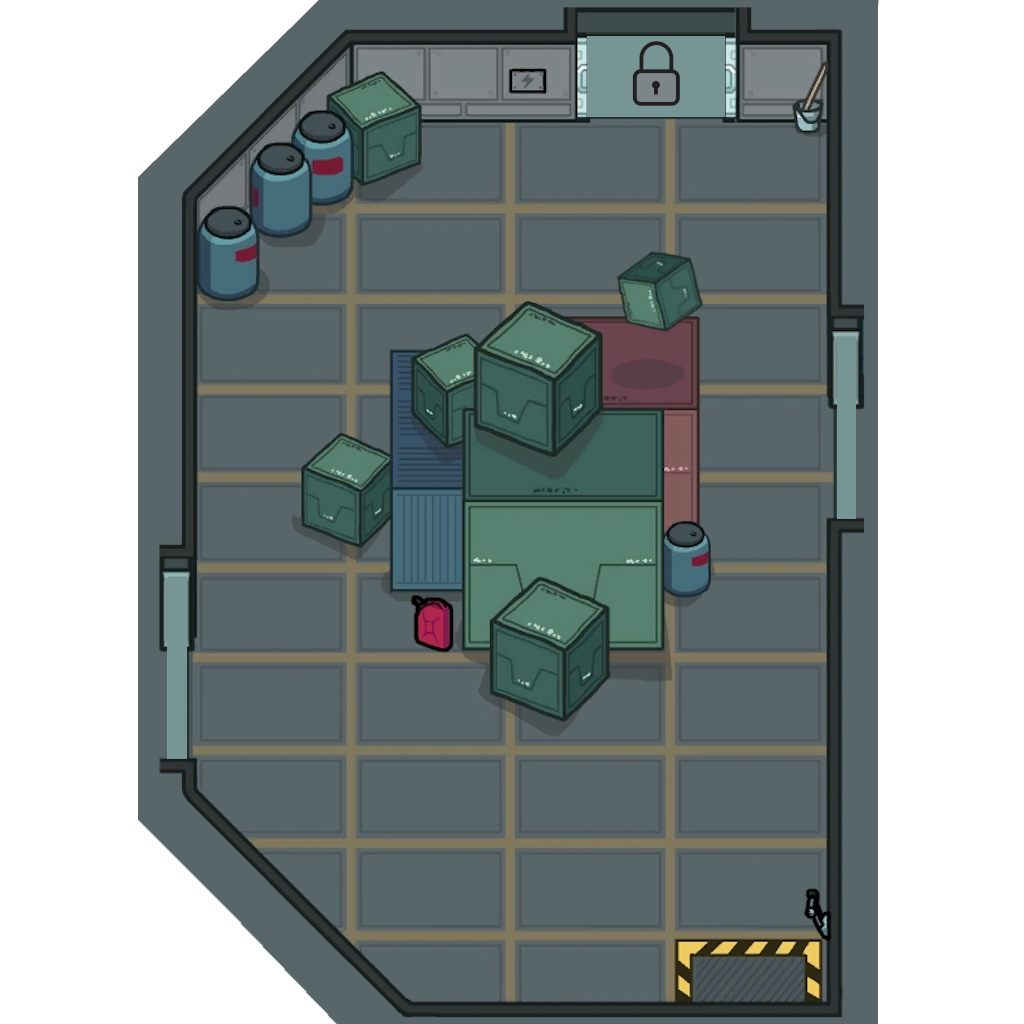
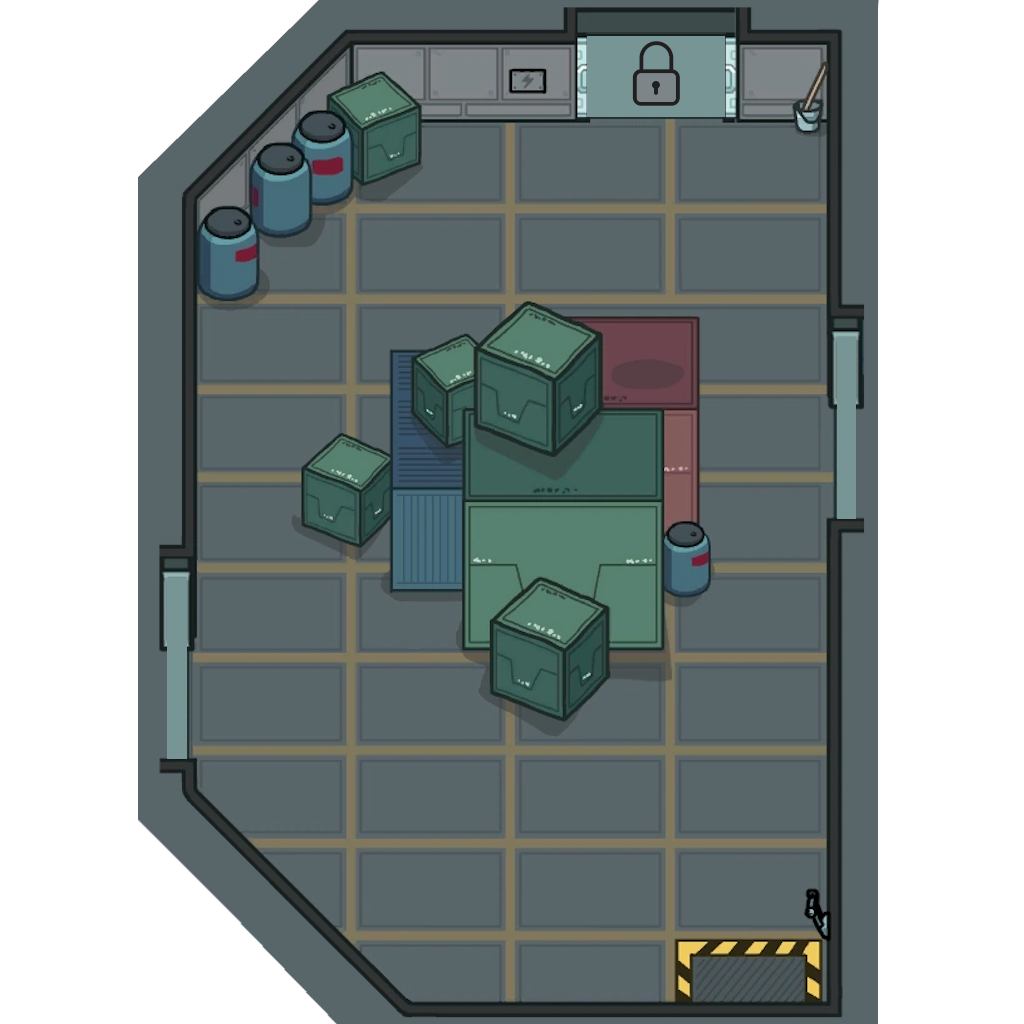
sEd: Added collision boxes and spiced up the map a bit.

Changed region(s): [[0.5938, 0.25, 0.6875, 0.3438], [0.4062, 0.5625, 0.4688, 0.6562]]

diff --git a/blog/sEducation/src/stages.js b/blog/sEducation/src/stages.js
@@ -14,14 +14,124 @@ class DebugStage extends Stage {
   constructor() {
     super();
 
-    this.AddSprite({id:"map", x: WIDTH*1/3, y: HEIGHT/2, width: 800, 
+    this.AddSprite({id:"map", x: 400, y: 500, width: 800, 
       height: 800, filename: "debug_map.png"});
 
-    this.AddSprite({id:"player", x: 400, y: 600, width: 100, 
-            height: 100, filename: "test_image.png"});
+    this.AddSprite({id:"key", x: 320, y: 600, width: 40,
+      height: 40, filename: "key.png"});
+
+    this.AddSprite({id:"player", x: 400, y: 250, width: 90, 
+            height: 90, filename: "test_image.png"});
+            
+    this.AddSprite({id:"crate", x: 505, y: 325, width: 80, 
+      height: 80, filename: "crate.png"});
+
+    this.collision_rects = [];
+
+    // Walls.
+    this.collision_rects.push({x:130, y:500, w:50, h:600}); // Left wall.
+    this.collision_rects.push({x:670, y:500, w:50, h:800}); // Right wall.
+    this.collision_rects.push({x:400, y:120, w:500, h:50}); // Top wall.
+    this.collision_rects.push({x:400, y:900, w:500, h:50}); // Bottom wall.
+    
+    // Bottom left angled wall.
+    this.collision_rects.push({x:290, y:855, w:50, h:50});
+    this.collision_rects.push({x:245, y:810, w:50, h:50});
+    this.collision_rects.push({x:200, y:765, w:50, h:50});
+    this.collision_rects.push({x:155, y:720, w:50, h:50});
+
+    // Top left barrels.
+    this.collision_rects.push({x:178, y:240, w:50, h:70});
+    this.collision_rects.push({x:225, y:200, w:50, h:70});
+    this.collision_rects.push({x:255, y:160, w:150, h:70});
+
+    // Center boxes.
+    this.collision_rects.push({x:426, y:435, w:246, h:160}); // Main large.
+    this.collision_rects.push({x:532, y:530, w:50, h:40}); // Bottem right barrel.
+    this.collision_rects.push({x:465, y:370, w:170, h:50}); // Red crate.
+    this.collision_rects.push({x:418, y:342, w:40, h:25}); // Top tip.
+    this.collision_rects.push({x:440, y:512, w:160, h:80}); // Big green.
+    this.collision_rects.push({x:430, y:570, w:95, h:40}); // Bottom small green.
+    this.collision_rects.push({x:270, y:455, w:70, h:40}); // Left small green.
+
+    this.player_left = this.sprites.player.x - 29;
+    this.player_right = this.sprites.player.x + 29;
+    this.player_top = this.sprites.player.y - 38;
+    this.player_bottom = this.sprites.player.y + 38;
+  }
+
+  MovePlayer(x, y) {
+    if (x < 0) {
+      if (this.sprites.player.scale.x > 0) {
+        this.sprites.player.scale.x *= -1;
+      }
+    } else {
+      if (this.sprites.player.scale.x < 0) {
+        this.sprites.player.scale.x *= -1;
+      }
+    }
+    this.sprites.player.x += x;
+    this.sprites.player.y += y;
+
+    this.player_left = this.sprites.player.x - 25;
+    this.player_right = this.sprites.player.x + 25;
+    this.player_top = this.sprites.player.y - 40;
+    this.player_bottom = this.sprites.player.y + 40;
+
+    G_needs_update = true;
+
+    let coll = false;
+    for (let i = 0; i < this.collision_rects.length; i++) {
+      let r = this.collision_rects[i];
+      if (sContains(this.player_left, this.player_top, r.x, r.y, r.w, r.h)) {
+        coll = true;
+        break;
+      }
+      if (sContains(this.player_left, this.player_bottom, r.x, r.y, r.w, r.h)) {
+        coll = true;
+        break;
+      }
+      if (sContains(this.player_right, this.player_top, r.x, r.y, r.w, r.h)) {
+        coll = true;
+        break;
+      }
+      if (sContains(this.player_right, this.player_bottom, r.x, r.y, r.w, r.h)) {
+        coll = true;
+        break;
+      }
+    }
+
+    if (coll) {
+      this.sprites.player.x -= x;
+      this.sprites.player.y -= y;
+
+      this.player_left = this.sprites.player.x - 25;
+      this.player_right = this.sprites.player.x + 25;
+      this.player_top = this.sprites.player.y - 40;
+      this.player_bottom = this.sprites.player.y + 40;
+  
+      G_needs_update = true;
+    }
   }
 
   Update(dT) {
+    this.sprites.crate.rotation += 0.0001 * dT;
+  }
 
+  Draw() {
+    if (DRAW_DEBUG === false) { return; }
+    for (let i = 0; i < this.collision_rects.length; i++) {
+      let r = this.collision_rects[i];
+      G_graphics[3].beginFill(0, 0);
+      G_graphics[3].lineStyle(1, 0x228822);
+      G_graphics[3].drawRect(r.x - r.w/2, r.y - r.h/2, r.w, r.h);
+      G_graphics[3].endFill();
+    }
+    
+    G_graphics[3].beginFill(0,0);
+    G_graphics[3].lineStyle(1, 0x440404);
+    G_graphics[3].drawRect(this.player_left, this.player_top,
+      this.player_right - this.player_left, this.player_bottom - this.player_top);
+    G_graphics[3].endFill();
   }
 };

diff --git a/blog/sEducation/src/runner.js b/blog/sEducation/src/runner.js
@@ -37,6 +37,14 @@ function AddHelpButton(which) {
       descr.innerHTML = "";
     }, false);
 
+  } else if (which === "use") {
+
+    btn.addEventListener("click", function () {
+      cmd.innerHTML = "use: Attempt to make the player character the held item.";
+      fmt.innerHTML = "use";
+      descr.innerHTML = "";
+    }, false);
+
   } else if (which === "wait") {
 
     btn.addEventListener("click", function () {
@@ -72,6 +80,7 @@ function PrintHelp() {
     AddHelpButton("pickup");
     AddHelpButton("wait");
     AddHelpButton("walk");
+    AddHelpButton("use");
 
   }
 }
@@ -198,8 +207,9 @@ function RunLine(linenum) {
 
     next_command_time = v_dur * 1000;
     lerper_func = function () {
-      G_stage.sprites.player.x += x_vel;
-      G_stage.sprites.player.y += y_vel;
+      G_stage.MovePlayer(x_vel, y_vel);
+      // G_stage.sprites.player.x += x_vel;
+      // G_stage.sprites.player.y += y_vel;
     };
 
   } else {

diff --git a/blog/sEducation/index.js b/blog/sEducation/index.js
@@ -2,6 +2,8 @@
 const WIDTH = window.innerWidth;
 const HEIGHT = window.innerHeight;
 
+const DRAW_DEBUG = false;
+
 const canvas = document.getElementById("canvas");
 const app = new PIXI.Application({
     width: WIDTH, height: HEIGHT,

diff --git a/blog/sEducation/styles.css b/blog/sEducation/styles.css
@@ -27,7 +27,7 @@ canvas {
   position: absolute;
   z-index: 9;
   background-color: #222222;
-  border: 1px solid #d3d3d3;
+  border: 3px solid #d3d3d3;
   width: 400px;
   resize: both;
 }
